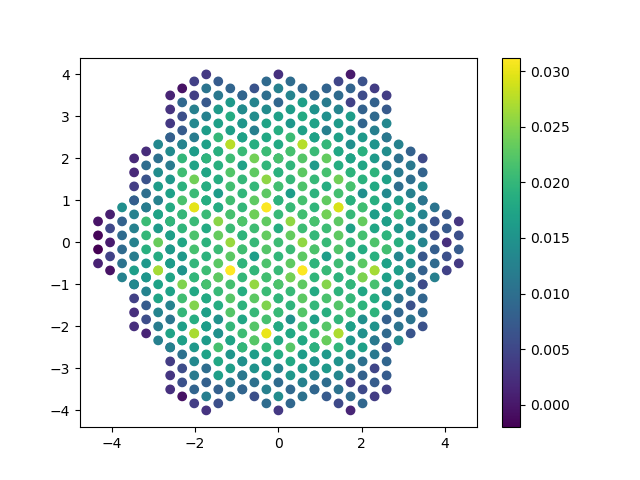
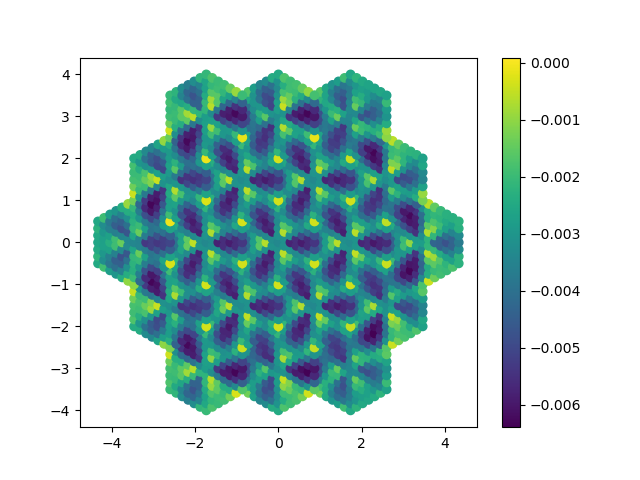
bandstructure close to working, but the degeneracy at the dirac points is not working properly

diff --git a/Mods/Dispersion.py b/Mods/Dispersion.py
@@ -1473,13 +1473,18 @@ class HF_BandStruc:
         self.FFp=FormFactors(self.psi_plus, 1, latt, -1,self.hpl,self.tot_nbands)
         self.FFm=FormFactors(self.psi_min, -1, latt, -1,self.hmin,self.tot_nbands)
         
-        self.LamP=np.transpose(self.FFp.denqFF_s(),(0,2,1,3) ) #reshaped arrays, spatial indices come first, band indices after
-        self.LamP_dag=np.conj(np.transpose(self.LamP,(0,1,3,2) )) #reshaped arrays, spatial indices come first, band indices after
-        self.LamM=np.transpose(self.FFm.denqFF_s(),(0,2,1,3) ) #reshaped arrays, spatial indices come first, band indices after
-        self.LamM_dag=np.conj(np.transpose(self.LamM,(0,1,3,2) )) #reshaped arrays, spatial indices come first, band indices after
+        # self.LamP=np.transpose(self.FFp.denqFF_s(),(0,2,1,3) ) #reshaped arrays, spatial indices come first, band indices after
+        # self.LamP_dag=np.conj(np.transpose(self.LamP,(0,1,3,2) )) #reshaped arrays, spatial indices come first, band indices after
+        # self.LamM=np.transpose(self.FFm.denqFF_s(),(0,2,1,3) ) #reshaped arrays, spatial indices come first, band indices after
+        # self.LamM_dag=np.conj(np.transpose(self.LamM,(0,1,3,2) )) #reshaped arrays, spatial indices come first, band indices after
         
         
-
+        self.LamP=self.FFp.denqFF_s() #no initial transpose
+        self.LamP_dag=np.conj(np.transpose(self.LamP,(0,3,2,1) )) #no initial transpose
+        self.LamM=self.FFm.denqFF_s() #no initial transpose
+        self.LamM_dag=np.conj(np.transpose(self.LamM,(0,3,2,1) )) #no initial transpose
+        
+        
         ################################
         #reference attributes
         ################################
@@ -1518,7 +1523,7 @@ class HF_BandStruc:
         HBMp=np.zeros(np.shape(Fock))
         HBMp[:,0,0]=self.Ene_valley_plus[:,0]
         HBMp[:,1,1]=self.Ene_valley_plus[:,1]
-        H0=HBMp-1*Fock
+        H0=HBMp-0*Fock
         
 
         print(f"starting dispersion with {self.latt.Npoi1bz} points..........")
@@ -1526,8 +1531,8 @@ class HF_BandStruc:
         s=time.time()
         EHF=[]
         for l in range(self.latt.NpoiQ):
-            
-            E1=la.eigvalsh(H0[l,:,:])
+            E1=la.eigvalsh(Fock[l,:,:])
+            # E1=la.eigvalsh(H0[l,:,:])
             EHF.append(E1)
             
         e=time.time()
@@ -1535,29 +1540,42 @@ class HF_BandStruc:
         print(np.shape(EE), 'shape of the HF eigenvalues')
         plt.scatter(self.latt.KQX,self.latt.KQY, c=EE[:,0])
         plt.colorbar()
-        plt.savefig("EHF1.png")
+        plt.savefig("EHFV1.png")
         plt.close()
         
         plt.scatter(self.latt.KQX,self.latt.KQY, c=EE[:,1])
         plt.colorbar()
-        plt.savefig("EHF2.png")
+        plt.savefig("EHFV2.png")
+        plt.close()
+        
+        [path,kpath,HSP_index]=self.latt.embedded_High_symmetry_path(self.latt.KQX,self.latt.KQY)
+        plt.plot(EE[path,0])
+        plt.plot(EE[path,1])
+        plt.savefig("dispHFV.png")
+        plt.close()
+        
+        plt.plot(self.latt.KQX[path], self.latt.KQY[path])
+        VV=self.latt.boundary()
+        plt.scatter(self.latt.KQX[path], self.latt.KQY[path], c='r')
+        plt.plot(VV[:,0], VV[:,1], c='b')
+        plt.savefig("HSP.png")
         plt.close()
     
     def Proy_slat_comp(self,psi_plus, psi_minus):
+        
         Pp=np.zeros([self.latt.NpoiQ, self.nbands_init, self.nbands_init],dtype=type(1j))
         Pm=np.zeros([self.latt.NpoiQ, self.nbands_init, self.nbands_init],dtype=type(1j))
         halfb=int(self.nbands_init/2)
         for k in range(self.latt.NpoiQ):
             vec=psi_plus[k,:,:]
-            first=np.conj(vec.T)@(vec[:,halfb])
-            second=np.conj((vec[:,halfb]).T)@vec
+            first=np.conj(vec.T)@(vec[:,:halfb])
+            second=np.conj((vec[:,:halfb]).T)@vec
             Pp[k,:,:]=first@second
             
             vec=psi_minus[k,:,:]
-            first=np.conj(vec.T)@(vec[:,halfb])
-            second=np.conj((vec[:,halfb]).T)@vec
-            Pp[k,:,:]=first@second
-            
+            first=np.conj(vec.T)@(vec[:,:halfb])
+            second=np.conj((vec[:,:halfb]).T)@vec
+            Pm[k,:,:]=first@second
             
         return Pp,Pm
     
@@ -1569,7 +1587,6 @@ class HF_BandStruc:
         for k in range(self.latt.NpoiQ):
             Delta[k,:self.ini_band_HF,:self.ini_band_HF]=np.eye(self.ini_band_HF)
             Id[k,self.ini_band_HF:self.fini_band_HF,self.ini_band_HF:self.fini_band_HF]=np.eye(self.nbands)
-            
         proj=P[:,self.ini_band:self.fini_band,self.ini_band:self.fini_band]-Delta-Id/2
         return proj
     
@@ -1583,15 +1600,24 @@ class HF_BandStruc:
     
     def Hartree(self, M):
         MT=np.transpose(M, (0,2,1))
-        
-        return None
+        Numkl=int(self.latt.NpoiQ/self.latt.Npoi1bz) 
+        X=np.zeros(np.shape(M),dtype=type(1j))
+        origin_ID= np.argmin(self.latt.KQX**2 +self.latt.KQY**2 )
+        for G in range(Numkl):
+            VG=[origin_ID+G*self.latt.Npoi1bz ,origin_ID ]
+            for k in range(self.latt.NpoiQ):
+                X[k, :,:]=0
+            X[k, :,:]=(X[k, :,:]+np.conj(X[k, :,:].T))/2
+        #trace term only 
+        return X
     
     def Fock(self, M):
         MT=np.transpose(M, (0,2,1))
-        X=np.zeros(np.shape(M))+ 1j
+        X=np.zeros(np.shape(M),dtype=type(1j))
         for k in range(self.latt.NpoiQ):
             for kq in range(self.latt.NpoiQ):
-                X[k, :,:]=X[k, :, :]+self.V[kq,k]*self.LamP_dag[k, kq ,:,:]@(MT[kq,:,:]@self.LamP[k, kq,:,:])
+                # X[k, :,:]=X[k, :, :]+self.V[kq,k]*self.LamP_dag[k, kq ,:,:]@(MT[kq,:,:]@self.LamP[k, kq,:,:]) #initial transpose
+                X[k, :,:]=X[k, :, :]+self.V[kq,k]*self.LamP_dag[k,:,kq,:]@(MT[kq,:,:]@self.LamP[k,:,kq,:]) #no initial transpose
             X[k, :,:]=(X[k, :,:]+np.conj(X[k, :,:].T))/2
         return -X
     
@@ -1705,7 +1731,7 @@ def main() -> int:
     
     #electron parameters
     nbands=2
-    nremote_bands=10
+    nremote_bands=0
     hbarc=0.1973269804*1e-6 #ev*m
     alpha=137.0359895 #fine structure constant
     a_graphene=2.458*(1e-10) #in meters this is the lattice constant NOT the carbon-carbon distance
@@ -1804,7 +1830,7 @@ def main() -> int:
     
     substract=0 #0 for decoupled layers
     HB=HF_BandStruc( lq, hpl, hmin, hpl_decoupled,hmin_decoupled, nremote_bands, nbands, substract,  [V0, d_screening_norm])
-    
+
 if __name__ == '__main__':
     import sys
     sys.exit(main())  # next section explains the use of sys.exit

diff --git a/Mods/MoireLattice.py b/Mods/MoireLattice.py
@@ -499,7 +499,7 @@ class MoireTriangLattice:
     #to check whether this is working uncomment the plot statments
     def findpath(self,Kps,KX,KY):
 
-        path=np.empty((0))
+        path=np.empty((0), dtype=int)
         pthK=[]
         HSP_index=[]
         counter_path=0
